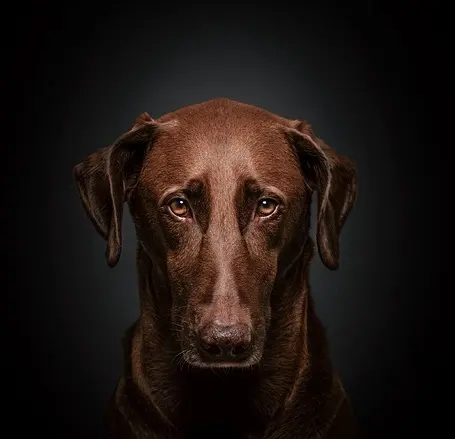
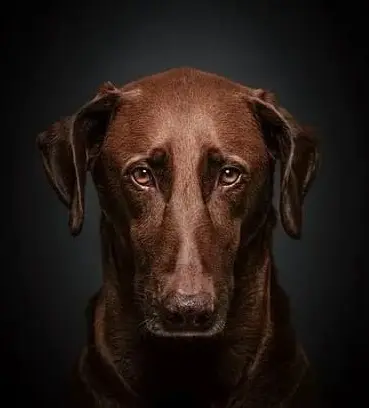
fixed auth

diff --git a/src/app/[lng]/layout.jsx b/src/app/[lng]/layout.jsx
@@ -2,10 +2,10 @@ import { Open_Sans, Montserrat } from "next/font/google";
 import BazaHeader from "./_TheHeader/BazaHeader";
 import styles from "./page.module.css";
 import { languages } from "../i18n/settings";
-// import { dir } from "i18next";
 import "../globals.css";
 import BazaFooter from "./_TheFooter/BazaFooter";
 import { IoMdRocket } from "react-icons/io";
+import { Providers } from "./_Helper/Providers";
 
 const open_sans = Open_Sans({
   subsets: ["latin"],
@@ -34,6 +34,7 @@ export default function RootLayout({ children, params: { lng } }) {
       className={` ${open_sans.variable} ${montserrat.variable}`}
     >
       <body className={styles.container}>
+        {/* <Providers> */}
         <div className={styles.top}>
           <BazaHeader lng={lng} id="search-form" />
         </div>
@@ -44,6 +45,7 @@ export default function RootLayout({ children, params: { lng } }) {
         <div className={styles.bottom}>
           <BazaFooter />
         </div>
+        {/* </Providers> */}
       </body>
     </html>
   );

diff --git a/src/config/auth.js b/src/config/auth.js
@@ -7,6 +7,7 @@ import { User } from "../app/models/user";
 // import { getUser } from "../app/services/users";
 
 export const { handlers, signIn, signOut, auth } = NextAuth({
+  secret: process.env.AUTH_SECRET,
   providers: [
     // Google({
     //   clientId: process.env.AUTH_GOOGLE_CLIENT_ID,
@@ -21,7 +22,7 @@ export const { handlers, signIn, signOut, auth } = NextAuth({
         // console.log("Credentials", credentials);
         if (!credentials.name || !credentials.password) return null;
 
-        const userName = credentials.name;
+        // const userName = credentials.name;
         // console.log("Username", userName);
 
         let user = null;

diff --git a/src/app/[lng]/admin/page.jsx b/src/app/[lng]/admin/page.jsx
@@ -6,15 +6,15 @@ import { redirect } from "next/navigation";
 import BtnOut from "./_filesadmin/BtnOut";
 
 export default async function AdminPage({ params: { lng } }) {
-  const session = await auth();
+  // const session = await auth();
 
-  console.log("SESSION", session);
+  // console.log("SESSION", session);
 
-  if (session === null) redirect(`/${lng}/auth`);
+  // if (session === null) redirect(`/${lng}/auth`);
   return (
     <section className={styles.admin}>
       <SectionNavigation lng={lng} />
-      <BtnOut />
+      <BtnOut lng={lng} />
     </section>
   );
 }

diff --git a/src/app/[lng]/admin/_filesadmin/BtnOut.jsx b/src/app/[lng]/admin/_filesadmin/BtnOut.jsx
@@ -6,14 +6,17 @@ import React from "react";
 import MainButton from "../../_Helper/MainButton";
 import Spinner from "../../_Helper/Spinner";
 import { signOut } from "next-auth/react";
+import { useRouter } from "next/navigation";
 
-export default function BtnOut() {
+export default function BtnOut({ lng }) {
+  const router = useRouter();
   const { pending } = useFormStatus();
 
   return (
     <form
       action={async () => {
         await signOut();
+        router.push(`/${lng}/auth`);
       }}
     >
       <MainButton type="submit">

diff --git a/src/app/[lng]/admin/layout.jsx b/src/app/[lng]/admin/layout.jsx
@@ -1,6 +1,13 @@
 import React from "react";
 import { Providers } from "../_Helper/Providers";
+import { auth } from "@/src/config/auth";
+import { redirect } from "next/navigation";
 
-export default async function AdminLayout({ children }) {
+export default async function AdminLayout({ children, params: { lng } }) {
+  const session = await auth();
+
+  console.log("SESSION", session);
+
+  if (session === null) redirect(`/${lng}/auth`);
   return <Providers>{children}</Providers>;
 }
